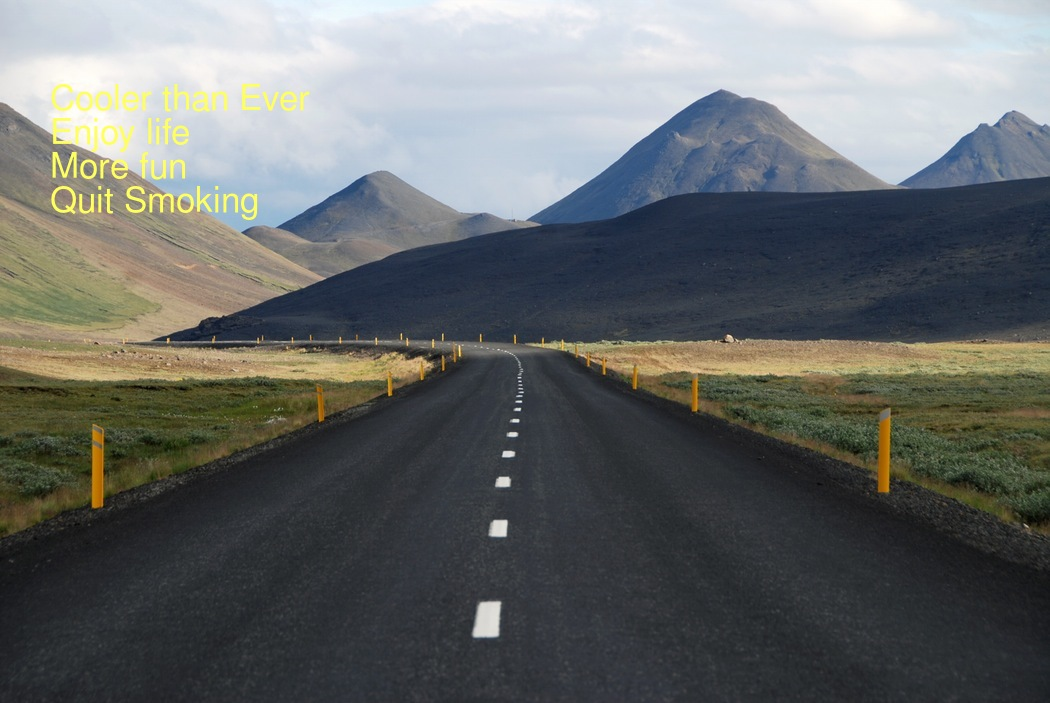
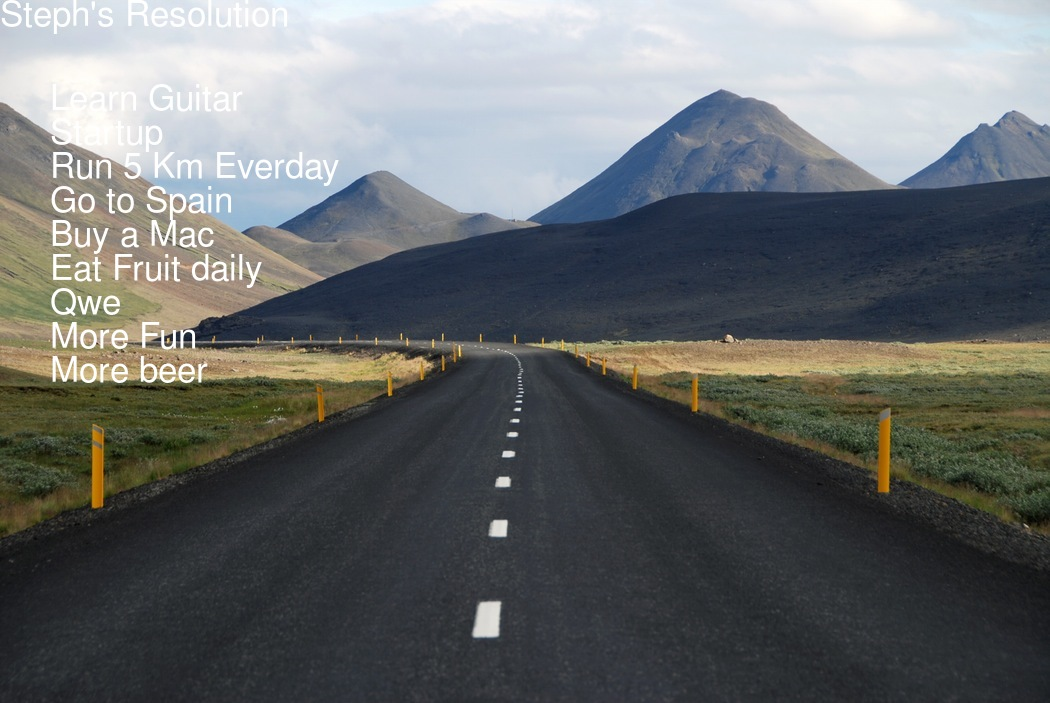
add more features

Changed region(s): [[0.0305, 0.1195, 0.3352, 0.5676], [0.0, 0.0, 0.2133, 0.0597]]

diff --git a/app/assets/stylesheets/users.css.scss b/app/assets/stylesheets/users.css.scss
@@ -1,0 +1,3 @@
+// Place all the styles related to the users controller here.
+// They will automatically be included in application.css.
+// You can use Sass (SCSS) here: http://sass-lang.com/

diff --git a/app/controllers/users_controller.rb b/app/controllers/users_controller.rb
@@ -1,0 +1,29 @@
+class UsersController < ApplicationController
+	def new_resolution
+		@user = current_user
+		if current_user.resolutions.blank?
+			10.times {@user.resolutions.build }
+		else
+			(10-current_user.resolutions.count).times {@user.resolutions.build}
+		end
+		@user
+	end
+
+	def resolution_create
+		@user = User.find current_user.id
+	  if @user.update(user_params)
+	  	redirect_to user_path(current_user)
+	  else
+	  	redirect_to resolution_page_path
+	  end
+	end
+
+	def show
+		
+	end
+
+	def user_params
+    params.require(:user).permit(resolutions_attributes: [:id, :name, :_destroy])
+  end
+
+end

diff --git a/config/routes.rb b/config/routes.rb
@@ -6,8 +6,12 @@ Rails.application.routes.draw do
   get 'auth/:provider/callback', to: 'sessions#create',  via: [:post, :get]
   get '/logout', to: 'sessions#destroy', via: [:get, :post]
 
-
+  match '/new_year_resolution', to: 'users#new_resolution', via: [:get]
+  match '/make_resolution', to: 'users#resolution_create', via: [:post, :put, :patch]
+  
+   
   resources :resolutions
+  resources :users
   root 'static_pages#home'
 
   # Example of regular route:

diff --git a/app/controllers/sessions_controller.rb b/app/controllers/sessions_controller.rb
@@ -11,7 +11,7 @@ class SessionsController < ApplicationController
     session[:user_id] = user.id
     current_user = user
     if new_user
-      redirect_to new_resolution_path
+      redirect_to new_year_resolution_path
     else
       redirect_to '/'
     end

diff --git a/app/controllers/resolutions_controller.rb b/app/controllers/resolutions_controller.rb
@@ -1,6 +1,7 @@
 class ResolutionsController < ApplicationController
 	def new
-		@resolution = Resolution.new
+		@user = current_user
+		@user = current_user.resolutions.build if current_user.resolutions.blank?
 	end
 
 	def create

diff --git a/app/models/user.rb b/app/models/user.rb
@@ -1,5 +1,6 @@
 class User < ActiveRecord::Base
 	has_many :resolutions
+	accepts_nested_attributes_for :resolutions, allow_destroy: true, reject_if: :all_blank
 
 	def self.find_with_omniauth(auth)
 		find_by(uid: auth['uid'])

diff --git a/test/controllers/users_controller_test.rb b/test/controllers/users_controller_test.rb
@@ -1,0 +1,7 @@
+require 'test_helper'
+
+class UsersControllerTest < ActionController::TestCase
+  # test "the truth" do
+  #   assert true
+  # end
+end

diff --git a/test/helpers/users_helper_test.rb b/test/helpers/users_helper_test.rb
@@ -1,0 +1,4 @@
+require 'test_helper'
+
+class UsersHelperTest < ActionView::TestCase
+end

diff --git a/app/helpers/users_helper.rb b/app/helpers/users_helper.rb
@@ -1,0 +1,2 @@
+module UsersHelper
+end
